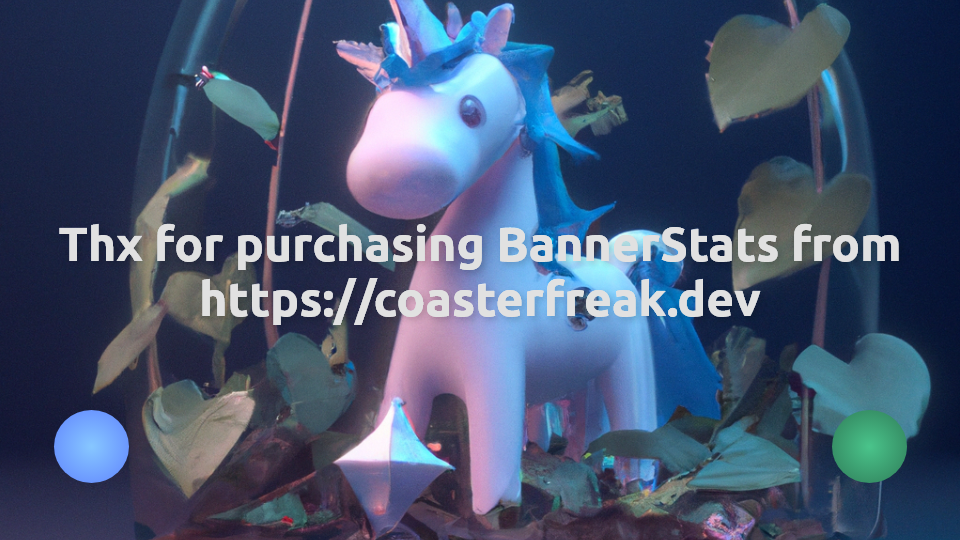
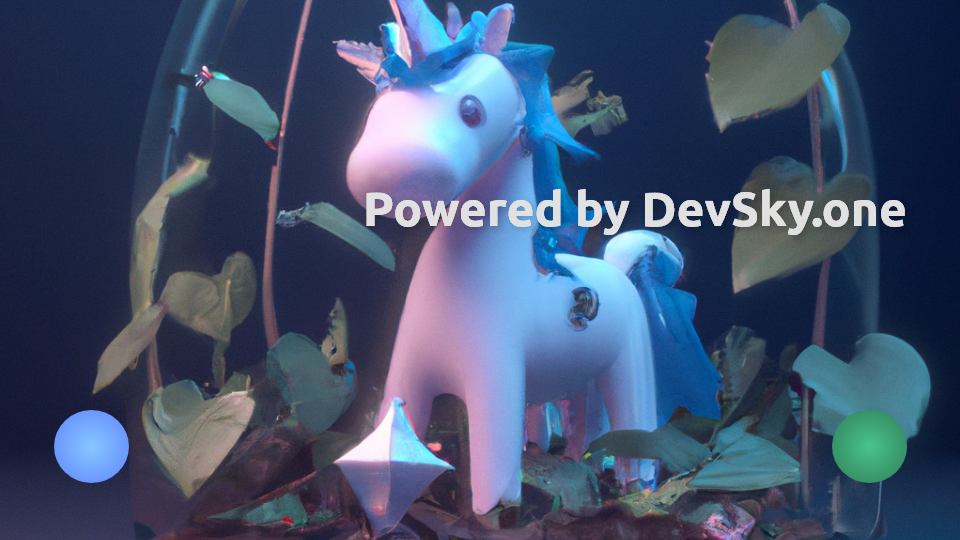
Ready for Open Source

Changed region(s): [[0.0625, 0.3556, 0.9688, 0.6222]]

diff --git a/README.md b/README.md
@@ -1,19 +1,22 @@
 # BannerStats
- BannerStats for CoasterFreakDEV
+ BannerStats for Discord
 
 
 ## Installation (English)
-1. Download the latest release from the [releases page](https://coasterfreak.dev/shop/resources/9)
+1. Download the latest release from the [releases page](https://github.com/DevSkyOne/BannerStats/releases)
 2. Download python 3.8.5 from [here](https://www.python.org/downloads/release/python-385/)
 3. Install python 3.8.5
-4. Open config.json and edit the settings to your liking
+4. Open config.json and edit the settings to your liking (You'll need a bot token for this)
 5. Open a command prompt and run `./start.bat` (Windows) or `./start.sh` (Linux)
 
 ---
 
 ## Installation (Deutsch)
-1. Lade die neuste Version von der [Releases Seite](https://coasterfreak.dev/shop/resources/9) herunter
+1. Lade die neuste Version von der [Releases Seite](https://github.com/DevSkyOne/BannerStats/releases) herunter
 2. Lade Python 3.8.5 von [hier](https://www.python.org/downloads/release/python-385/) herunter
 3. Installiere Python 3.8.5
-4. Öffne config.json und passe die Einstellungen deinen Wünschen an
+4. Öffne config.json und passe die Einstellungen deinen Wünschen an (Du brauchst hierfür einen Bot Token)
 5. Öffne eine Kommandozeile und führe `./start.bat` (Windows) oder `./start.sh` (Linux) aus
+
+---
+Powered by [DevSky Coding Support](https://discord.gg/devsky) | [Website](https://devsky.one) | [GitHub](https://github.com/DevSkyOne)
